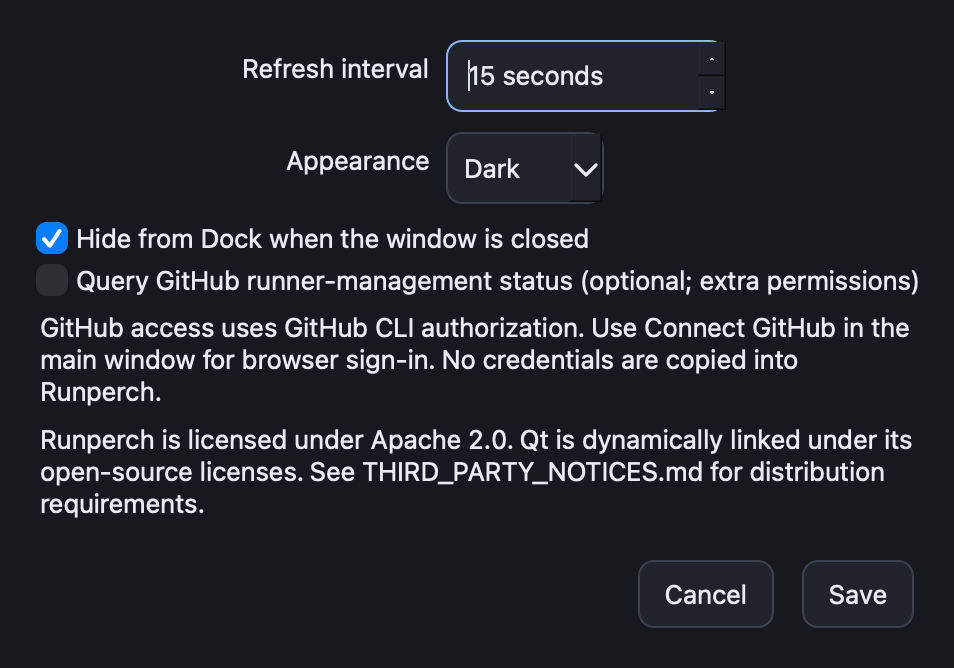
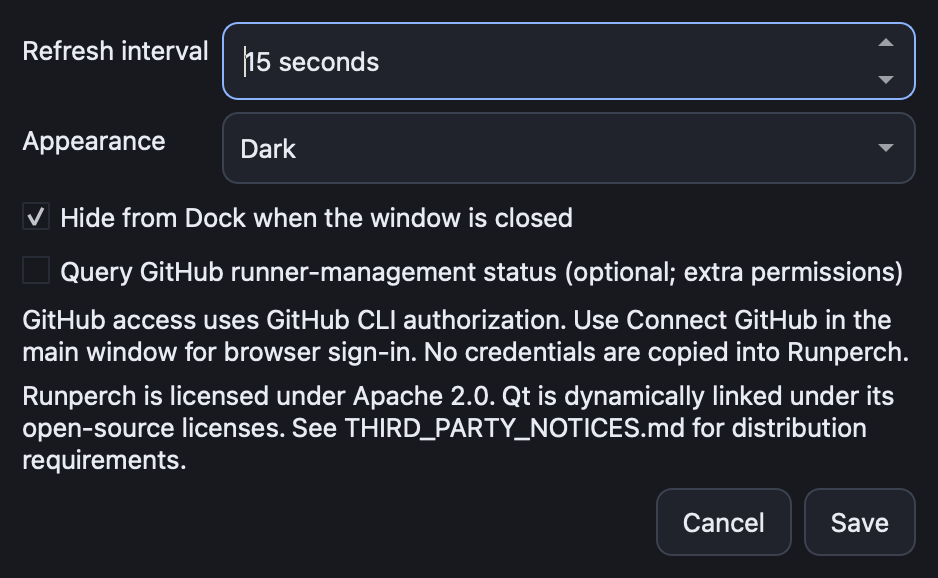
Fix themed dropdown and spin controls with portable UI diagnostics

diff --git a/tests/test_ui.cpp b/tests/test_ui.cpp
@@ -4,6 +4,13 @@
 #include "ui/display.h"
 #include "ui/theme.h"
 #include <QStyleHints>
+#include <QStyleOption>
+#include <algorithm>
+#include <cmath>
+#include <QSpinBox>
+#include <QScopeGuard>
+#include <QStyleFactory>
+#include <QPainter>
 #include <QCheckBox>
 #include <QScrollArea>
 #include <QScrollBar>
@@ -27,6 +34,46 @@
 #include <QTest>
 using namespace runperch;
 namespace {
+// Font rasterizers may blend every glyph pixel. Validate the expected color's
+// compositing line instead of demanding a pixel with exactly 100% coverage.
+bool renderedTextUses(const QImage& image,QRect area,QColor ink,QColor background) {
+    const double delta[]{double(ink.red()-background.red()),double(ink.green()-background.green()),double(ink.blue()-background.blue())};
+    const double length=delta[0]*delta[0]+delta[1]*delta[1]+delta[2]*delta[2];
+    if(length==0) return false;
+    int observed=0,matched=0;
+    area=area.intersected(image.rect());
+    for(int y=area.top();y<=area.bottom();++y) for(int x=area.left();x<=area.right();++x) {
+        const auto c=image.pixelColor(x,y);
+        const double sample[]{double(c.red()-background.red()),double(c.green()-background.green()),double(c.blue()-background.blue())};
+        if(std::max({std::abs(sample[0]),std::abs(sample[1]),std::abs(sample[2])})<12) continue;
+        ++observed;
+        const double alpha=(sample[0]*delta[0]+sample[1]*delta[1]+sample[2]*delta[2])/length;
+        const double clipped=std::clamp(alpha,0.0,1.0);
+        const double residual=std::max({std::abs(sample[0]-clipped*delta[0]),std::abs(sample[1]-clipped*delta[1]),std::abs(sample[2]-clipped*delta[2])});
+        if(residual<=8) ++matched;
+    }
+    return observed>=10 && matched>=observed*0.95;
+}
+bool matchesStandardArrow(QWidget* widget,QRect area,QStyle::PrimitiveElement primitive,bool enabled=true) {
+    const auto image=widget->grab().toImage();
+    QImage expected(image.size(),QImage::Format_ARGB32_Premultiplied); expected.setDevicePixelRatio(image.devicePixelRatio()); expected.fill(Qt::transparent);
+    QPainter painter(&expected); QStyleOption option; option.initFrom(widget);
+    option.rect=QStyle::alignedRect(widget->layoutDirection(),Qt::AlignCenter,QSize(12,12),area);
+    if(!enabled) option.state&=~QStyle::State_Enabled;
+    std::unique_ptr<QStyle> reference(QStyleFactory::create("Fusion")); reference->drawPrimitive(primitive,&option,&painter); painter.end();
+    const auto dpr=image.devicePixelRatio();
+    const auto background=image.pixelColor(qRound(area.center().x()*dpr),qRound((area.top()+2)*dpr));
+    int ink=0,matched=0;
+    for(int y=0;y<image.height();++y) for(int x=0;x<image.width();++x) {
+        const auto target=expected.pixelColor(x,y); if(target.alpha()<50) continue;
+        ++ink; const auto actual=image.pixelColor(x,y); const auto alpha=target.alphaF();
+        const auto red=qRound(alpha*target.red()+(1-alpha)*background.red());
+        const auto green=qRound(alpha*target.green()+(1-alpha)*background.green());
+        const auto blue=qRound(alpha*target.blue()+(1-alpha)*background.blue());
+        if(std::max({std::abs(actual.red()-red),std::abs(actual.green()-green),std::abs(actual.blue()-blue)})<=2) ++matched;
+    }
+    return ink>=4 && matched==ink;
+}
 class TestPlatform final : public Platform {
 public:
     ServiceObservation value;
@@ -79,6 +126,64 @@ private slots:
         hints->setColorScheme(Qt::ColorScheme::Light); qApp->processEvents(); QCOMPARE(theme().isDark(),hints->colorScheme()==Qt::ColorScheme::Dark);
 #endif
     }
+    void settingsControlsHaveSeparatedThemedSubcontrols() {
+        TestPlatform p; TestRemote g; Monitor m(p,g); Window window(m,p);
+        auto checked=std::make_shared<bool>(false);
+        QTimer::singleShot(0,&window,[checked] {
+            auto* dialog=qobject_cast<QDialog*>(QApplication::activeModalWidget()); QVERIFY(dialog);
+            auto* combo=dialog->findChild<QComboBox*>("themePreference"); QVERIFY(combo);
+            auto* spin=dialog->findChild<QSpinBox*>(); QVERIFY(spin);
+            // Always close the modal even when an assertion returns early.
+            const auto close=qScopeGuard([dialog] {dialog->reject();});
+            for(auto preference:{ThemePreference::Light,ThemePreference::Dark}) {
+                theme().setPreference(preference); qApp->processEvents();
+                QStyleOptionComboBox c; c.initFrom(combo); c.rect=combo->rect(); c.editable=false;
+                QCOMPARE(combo->style()->styleHint(QStyle::SH_ComboBox_Popup,&c,combo),0);
+                QCOMPARE(combo->style()->styleHint(QStyle::SH_ComboBox_UseNativePopup,&c,combo),0);
+                const auto arrow=combo->style()->subControlRect(QStyle::CC_ComboBox,&c,QStyle::SC_ComboBoxArrow,combo);
+                const auto text=combo->style()->subControlRect(QStyle::CC_ComboBox,&c,QStyle::SC_ComboBoxEditField,combo);
+                QVERIFY(arrow.width()>=24); QVERIFY(!arrow.intersects(text));
+                QVERIFY(matchesStandardArrow(combo,arrow,QStyle::PE_IndicatorArrowDown));
+                combo->setEnabled(false); QVERIFY(matchesStandardArrow(combo,arrow,QStyle::PE_IndicatorArrowDown)); combo->setEnabled(true);
+                QStyleOptionSpinBox b; b.initFrom(spin); b.rect=spin->rect(); b.frame=true;
+                b.buttonSymbols=QAbstractSpinBox::UpDownArrows;
+                const auto up=spin->style()->subControlRect(QStyle::CC_SpinBox,&b,QStyle::SC_SpinBoxUp,spin);
+                const auto down=spin->style()->subControlRect(QStyle::CC_SpinBox,&b,QStyle::SC_SpinBoxDown,spin);
+                const auto edit=spin->style()->subControlRect(QStyle::CC_SpinBox,&b,QStyle::SC_SpinBoxEditField,spin);
+                QVERIFY(up.width()>=24); QVERIFY(down.width()>=24);
+                QVERIFY(!up.intersects(edit)); QVERIFY(!down.intersects(edit)); QVERIFY(!up.intersects(down));
+                QVERIFY(up.top()>0); QVERIFY(down.bottom()<spin->height()-1);
+                QVERIFY(matchesStandardArrow(spin,up,QStyle::PE_IndicatorArrowUp));
+                QVERIFY(matchesStandardArrow(spin,down,QStyle::PE_IndicatorArrowDown));
+                spin->setValue(15); QTest::mouseClick(spin,Qt::LeftButton,Qt::NoModifier,up.center()); QCOMPARE(spin->value(),16);
+                QTest::mouseClick(spin,Qt::LeftButton,Qt::NoModifier,down.center()); QCOMPARE(spin->value(),15);
+                spin->setFocus(); QTest::keyClick(spin,Qt::Key_Up); QCOMPARE(spin->value(),16);
+                spin->setValue(spin->maximum()); QVERIFY(matchesStandardArrow(spin,up,QStyle::PE_IndicatorArrowUp,false)); QTest::mouseClick(spin,Qt::LeftButton,Qt::NoModifier,up.center()); QCOMPARE(spin->value(),spin->maximum());
+                spin->setValue(spin->minimum()); QVERIFY(matchesStandardArrow(spin,down,QStyle::PE_IndicatorArrowDown,false)); QTest::mouseClick(spin,Qt::LeftButton,Qt::NoModifier,down.center()); QCOMPARE(spin->value(),spin->minimum());
+                spin->setValue(15); spin->setEnabled(false);
+                QVERIFY(matchesStandardArrow(spin,up,QStyle::PE_IndicatorArrowUp));
+                QVERIFY(matchesStandardArrow(spin,down,QStyle::PE_IndicatorArrowDown));
+                QTest::mouseClick(spin,Qt::LeftButton,Qt::NoModifier,up.center()); QCOMPARE(spin->value(),15); spin->setEnabled(true);
+                const auto prefix=qEnvironmentVariable("RUNPERCH_CAPTURE_CONTROLS");
+                const auto suffix=preference==ThemePreference::Dark ? "-dark" : "-light";
+                if(!prefix.isEmpty()) QVERIFY(dialog->grab().save(prefix+suffix+"-settings.png"));
+                combo->setCurrentIndex(0); combo->showPopup(); qApp->processEvents(); QVERIFY(combo->view()->isVisible());
+                if(!prefix.isEmpty()) QVERIFY(combo->view()->window()->grab().save(prefix+suffix+"-choices.png"));
+                QVERIFY(combo->view()->viewport()->mapToGlobal(QPoint(0,0)).y()>=combo->mapToGlobal(QPoint(0,combo->height())).y());
+                if(!prefix.isEmpty()) QVERIFY(combo->view()->window()->grab().save(prefix+suffix+"-choices.png"));
+                QTest::keyClick(combo->view(),Qt::Key_Down); QTest::keyClick(combo->view(),Qt::Key_Enter); QCOMPARE(combo->currentIndex(),1);
+                combo->showPopup(); QTest::keyClick(combo->view(),Qt::Key_Escape); QCOMPARE(combo->currentIndex(),1);
+                QVERIFY(!combo->view()->isVisible());
+                combo->showPopup(); qApp->processEvents();
+                const auto item=combo->model()->index(2,0); const auto choice=combo->view()->visualRect(item);
+                QVERIFY(choice.isValid()); QTest::mouseClick(combo->view()->viewport(),Qt::LeftButton,Qt::NoModifier,choice.center());
+                QCOMPARE(combo->currentIndex(),2); QVERIFY(!combo->view()->isVisible());
+            }
+            *checked=true;
+        });
+        for(auto* button:window.findChildren<QPushButton*>()) if(button->text()=="Settings") { button->click(); break; }
+        QVERIFY(*checked); QCOMPARE(g.calls,0); QCOMPARE(p.actions,0);
+    }
     void liveThemeReachesRealWindowPopoverMenusAndChartWithoutQueries() {
         QTemporaryDir runner; QFile f(runner.filePath(".runner")); QVERIFY(f.open(QIODevice::WriteOnly));
         f.write("{\"agentId\":42,\"agentName\":\"theme-runner\",\"gitHubUrl\":\"https://github.com/example/project\"}"); f.close();
@@ -98,11 +203,18 @@ private slots:
             auto logoImage=window.findChild<QLabel*>("logo")->pixmap().toImage(); int logoPixels=0;
             for(int y=0;y<logoImage.height();++y) for(int x=0;x<logoImage.width();++x) if(logoImage.pixelColor(x,y).rgb()==t.accent.rgb()) ++logoPixels;
             QVERIFY2(logoPixels>0,"Sidebar brand mark does not consume the current theme accent");
-            QCheckBox disabled("Unavailable setting",&window); disabled.setEnabled(false); disabled.show(); disabled.ensurePolished();
+            QCheckBox disabled("Unavailable setting",&window); disabled.setEnabled(false); disabled.show(); disabled.ensurePolished(); disabled.adjustSize();
             QCOMPARE(disabled.palette().color(QPalette::Disabled,QPalette::WindowText),t.disabled);
-            auto disabledImage=disabled.grab().toImage(); int disabledPixels=0;
-            for(int y=0;y<disabledImage.height();++y) for(int x=0;x<disabledImage.width();++x) if(disabledImage.pixelColor(x,y).rgb()==t.disabled.rgb()) ++disabledPixels;
-            QVERIFY(disabledPixels>0);
+            QStyleOptionButton check; check.initFrom(&disabled); check.rect=disabled.rect();
+            const auto contents=disabled.style()->subElementRect(QStyle::SE_CheckBoxContents,&check,&disabled);
+            auto disabledImage=disabled.grab().toImage();
+            const auto dpr=disabledImage.devicePixelRatio();
+            const QRect physical(qRound(contents.x()*dpr),qRound(contents.y()*dpr),qRound(contents.width()*dpr),qRound(contents.height()*dpr));
+            QVERIFY(renderedTextUses(disabledImage,physical,t.disabled,t.background));
+            // Deliberately break the actual consumer: the raster gate must reject it.
+            disabled.setStyleSheet("QCheckBox:disabled {color:magenta;}");
+            QVERIFY(!renderedTextUses(disabled.grab().toImage(),physical,t.disabled,t.background));
+            disabled.setStyleSheet({});
             auto image=popup->findChild<QWidget*>("cpuHistory")->grab().toImage(); int accentPixels=0;
             for(int y=0;y<image.height();++y) for(int x=0;x<image.width();++x) if(image.pixelColor(x,y).rgb()==t.accent.rgb()) ++accentPixels;
             QVERIFY(accentPixels>0); QCOMPARE(g.calls,0); QCOMPARE(p.actions,0);
@@ -195,7 +307,14 @@ private slots:
         selector->setCurrentIndex(1); QCOMPARE(selector->currentText(),QString("second"));
         QSignalSpy resets(selector->model(),&QAbstractItemModel::rowsRemoved);
         popup->present(QRect(400,40,20,20)); selector->showPopup(); QVERIFY(selector->view()->isVisible());
-        popup->refresh(); QCOMPARE(resets.count(),0); QVERIFY(selector->view()->isVisible()); selector->hidePopup(); popup->hide();
+        popup->refresh(); QCOMPARE(resets.count(),0); QVERIFY(selector->view()->isVisible());
+        QVERIFY(selector->view()->viewport()->mapToGlobal(QPoint(0,0)).y()>=selector->mapToGlobal(QPoint(0,selector->height())).y());
+        const auto prefix=qEnvironmentVariable("RUNPERCH_CAPTURE_CONTROLS");
+        if(!prefix.isEmpty()) {
+            QVERIFY(popup->grab().save(prefix+"-runner-field.png"));
+            QVERIFY(selector->view()->window()->grab().save(prefix+"-runner-choices.png"));
+        }
+        selector->hidePopup(); popup->hide();
         auto accepted=std::make_shared<bool>(false);
         QTimer::singleShot(0,&window,[&monitor,&second,accepted] {
             monitor.remove(1); *accepted=monitor.add(second.path()); monitor.refresh(true);

diff --git a/src/ui/theme.cpp b/src/ui/theme.cpp
@@ -5,6 +5,7 @@
 #include <QPainter>
 #include <QSettings>
 #include <QStyleHints>
+#include <QStyleFactory>
 namespace runperch {
 ThemeTokens themeTokens(bool dark) {
     if(dark) return {
@@ -53,7 +54,20 @@ QString stylesheet(const ThemeTokens& t) {
         QMenu::item:disabled { color:@disabled@; }
         QComboBox, QLineEdit, QSpinBox { background:@surface@; border:1px solid @border@; border-radius:@radius@px; padding:@gap@px; selection-background-color:@selection@; selection-color:@selectedText@; }
         QComboBox:disabled, QLineEdit:disabled, QSpinBox:disabled { color:@disabled@; background:@disabledBackground@; }
-        QComboBox QAbstractItemView { background:@surface@; color:@text@; selection-background-color:@selection@; selection-color:@selectedText@; }
+        QComboBox { padding-right:36px; combobox-popup:0; }
+        QComboBox::drop-down { subcontrol-origin:padding; subcontrol-position:top right; width:28px; border:none; background:transparent; border-top-right-radius:@radius@px; border-bottom-right-radius:@radius@px; }
+        QComboBox::drop-down:hover { background:@hover@; }
+        QComboBox::drop-down:on { background:@selection@; }
+        QComboBox::drop-down:disabled { background:transparent; }
+        QComboBox QAbstractItemView { background:@surface@; color:@text@; border:1px solid @border@; padding:4px; outline:none; selection-background-color:@selection@; selection-color:@selectedText@; }
+        QComboBox QAbstractItemView::item { min-height:28px; padding:2px 8px; border:none; }
+        QSpinBox { padding-right:36px; }
+        QSpinBox::up-button, QSpinBox::down-button { subcontrol-origin:padding; width:28px; border:none; background:transparent; }
+        QSpinBox::up-button { subcontrol-position:top right; border-top-right-radius:@radius@px; }
+        QSpinBox::down-button { subcontrol-position:bottom right; border-bottom-right-radius:@radius@px; }
+        QSpinBox::up-button:hover, QSpinBox::down-button:hover { background:@hover@; }
+        QSpinBox::up-button:pressed, QSpinBox::down-button:pressed { background:@selection@; }
+        QSpinBox::up-button:disabled, QSpinBox::down-button:disabled { background:transparent; }
         QToolTip { color:@text@; background:@surface@; border:1px solid @border@; padding:@gap@px; }
         QFrame#runnerPopover { background:transparent; border:none; }
         QWidget#popoverContent, QWidget#popoverViewport, QScrollArea#popoverScroll { background:transparent; border:none; }
@@ -79,6 +93,9 @@ QString stylesheet(const ThemeTokens& t) {
 }
 }
 ThemeController::ThemeController(QObject* parent):QObject(parent) {
+    // One portable widget base prevents native subcontrols leaking through QSS.
+    // QApplication owns the style; install it once, before applying theme rules.
+    baseStyle=QStyleFactory::create("Fusion"); qApp->setStyle(baseStyle);
     setObjectName("applicationTheme"); const auto saved=QSettings().value("appearance","system").toString();
     choice=saved=="dark" ? ThemePreference::Dark : saved=="light" ? ThemePreference::Light : ThemePreference::System;
     connect(QGuiApplication::styleHints(),&QStyleHints::colorSchemeChanged,this,[this] { if(choice==ThemePreference::System) apply(); });

diff --git a/src/ui/popover.cpp b/src/ui/popover.cpp
@@ -1,3 +1,4 @@
+#include "ui/themed_controls.h"
 #include "ui/popover.h"
 #include "ui/display.h"
 #include "ui/theme.h"
@@ -40,7 +41,7 @@ RunnerPopover::RunnerPopover(Monitor& m,QWidget* parent,Qt::WindowFlags flags):Q
     column->setContentsMargins(uiMetrics.inset,uiMetrics.inset,uiMetrics.inset,uiMetrics.inset); column->setSpacing(uiMetrics.gap); column->setAlignment(Qt::AlignTop);
     auto* header=new QHBoxLayout; auto* brand=line("popoverBrand"); brand->setText("Runperch"); header->addWidget(brand); header->addStretch();
     auto* open=new QPushButton("Open overview ↗"); open->setObjectName("popoverOverview"); header->addWidget(open); column->addLayout(header);
-    selector=new QComboBox; selector->setObjectName("popoverRunners"); selector->setAccessibleName("Runner"); selector->setSizeAdjustPolicy(QComboBox::AdjustToMinimumContentsLengthWithIcon); selector->setMinimumContentsLength(10); column->addWidget(selector);
+    selector=new ThemedComboBox; selector->setObjectName("popoverRunners"); selector->setAccessibleName("Runner"); selector->setSizeAdjustPolicy(QComboBox::AdjustToMinimumContentsLengthWithIcon); selector->setMinimumContentsLength(10); column->addWidget(selector);
     state=line("popoverState"); activity=line("popoverActivity"); local=line("popoverLocal"); timing=line("popoverTiming");
     auto* statusRow=new QHBoxLayout; statusRow->addWidget(state); statusRow->addStretch(); statusRow->addWidget(local);
     column->addLayout(statusRow); column->addWidget(activity); column->addWidget(timing);

diff --git a/src/ui/themed_controls.cpp b/src/ui/themed_controls.cpp
@@ -1,0 +1,25 @@
+#include "ui/themed_controls.h"
+#include "ui/theme.h"
+#include <QPainter>
+#include <QStyleOption>
+namespace runperch {
+namespace {
+void standardArrow(QWidget* widget,QRect area,QStyle::PrimitiveElement primitive,QPainter& painter,bool enabled=true) {
+    QStyleOption arrow; arrow.initFrom(widget);
+    arrow.rect=QStyle::alignedRect(widget->layoutDirection(),Qt::AlignCenter,QSize(12,12),area);
+    if(!enabled) arrow.state&=~QStyle::State_Enabled;
+    theme().widgetBaseStyle().drawPrimitive(primitive,&arrow,&painter,widget);
+}
+}
+void ThemedComboBox::paintEvent(QPaintEvent* event) {
+    QComboBox::paintEvent(event);
+    QStyleOptionComboBox option; initStyleOption(&option); QPainter painter(this);
+    standardArrow(this,style()->subControlRect(QStyle::CC_ComboBox,&option,QStyle::SC_ComboBoxArrow,this),QStyle::PE_IndicatorArrowDown,painter);
+}
+void ThemedSpinBox::paintEvent(QPaintEvent* event) {
+    QSpinBox::paintEvent(event);
+    QStyleOptionSpinBox option; initStyleOption(&option); QPainter painter(this);
+    standardArrow(this,style()->subControlRect(QStyle::CC_SpinBox,&option,QStyle::SC_SpinBoxUp,this),QStyle::PE_IndicatorArrowUp,painter,option.stepEnabled&StepUpEnabled);
+    standardArrow(this,style()->subControlRect(QStyle::CC_SpinBox,&option,QStyle::SC_SpinBoxDown,this),QStyle::PE_IndicatorArrowDown,painter,option.stepEnabled&StepDownEnabled);
+}
+}

diff --git a/src/ui/window.cpp b/src/ui/window.cpp
@@ -1,3 +1,4 @@
+#include "ui/themed_controls.h"
 #include "ui/window.h"
 #include "ui/popover.h"
 #include "ui/display.h"
@@ -291,9 +292,9 @@ void Window::controlRunner(QString root,quint64 instance,ServiceAction action) {
 }
 void Window::settings() {
     QDialog dialog(this); dialog.setWindowTitle("Runperch settings"); auto* layout=new QVBoxLayout(&dialog);
-    auto* form=new QFormLayout; auto* seconds=new QSpinBox; seconds->setRange(5,3600); seconds->setSuffix(" seconds"); seconds->setValue(savedRefreshInterval());
+    auto* form=new QFormLayout; auto* seconds=new ThemedSpinBox; seconds->setRange(5,3600); seconds->setSuffix(" seconds"); seconds->setValue(savedRefreshInterval());
     form->addRow("Refresh interval",seconds);
-    auto* appearance=new QComboBox; appearance->setObjectName("themePreference");
+    auto* appearance=new ThemedComboBox; appearance->setObjectName("themePreference");
     appearance->addItems({"System","Light","Dark"}); appearance->setCurrentIndex(static_cast<int>(theme().preference()));
     form->addRow("Appearance",appearance); layout->addLayout(form);
     QCheckBox* hideDock=nullptr;

diff --git a/src/ui/theme.h b/src/ui/theme.h
@@ -3,6 +3,7 @@
 #include <QColor>
 #include <QPixmap>
 #include <Qt>
+class QStyle;
 namespace runperch {
 enum class ThemePreference { System, Light, Dark };
 struct ThemeTokens {
@@ -23,6 +24,7 @@ public:
     ThemePreference preference() const { return choice; }
     bool isDark() const { return dark; }
     const ThemeTokens& tokens() const { return current; }
+    QStyle& widgetBaseStyle() const { return *baseStyle; }
     void setPreference(ThemePreference);
 signals:
     void changed();
@@ -31,6 +33,7 @@ private:
     ThemePreference choice=ThemePreference::System;
     bool dark=false;
     ThemeTokens current;
+    QStyle* baseStyle=nullptr; // Owned by QApplication, beneath the stylesheet wrapper.
 };
 ThemeController& theme();
 QString statusTone(const QString& status);

diff --git a/src/ui/themed_controls.h b/src/ui/themed_controls.h
@@ -1,0 +1,19 @@
+#pragma once
+#include <QComboBox>
+#include <QSpinBox>
+namespace runperch {
+// Keep Qt input, accessibility and popup behavior; only restore the standard
+// arrow primitives that custom stylesheet subcontrols otherwise suppress.
+class ThemedComboBox final : public QComboBox {
+public:
+    using QComboBox::QComboBox;
+protected:
+    void paintEvent(QPaintEvent*) override;
+};
+class ThemedSpinBox final : public QSpinBox {
+public:
+    using QSpinBox::QSpinBox;
+protected:
+    void paintEvent(QPaintEvent*) override;
+};
+}

diff --git a/design/themes.md b/design/themes.md
@@ -41,3 +41,45 @@ No resource sampling, history retention, service-control policy, authentication 
 GitHub requests change. Screenshots use explicit scripted sample data. Native
 Windows/Linux appearance and physical OS theme switching require their own checks;
 local Mac captures are not evidence of those platforms.
+
+## 0.7.1 control rendering correction (planned before implementation)
+
+| Before | After | Reason |
+|---|---|---|
+| Native platform subcontrols inside custom rounded fields | Built-in Qt Fusion base with one shared token stylesheet covering combo and spin subcontrols | Avoid mixed native/QSS edges; keep the same implementation across platforms |
+| Combo menu overlaps field with native checkmark styling | Qt list popup below the field (`combobox-popup: 0`) with themed rows | Keep the field readable while selecting, including in the menu-bar panel |
+| Tiny native spin buttons with square patches | Inset, padded spin buttons with matching corner radii and visible hover/pressed/disabled states | Consistent geometry and readable controls |
+| Exact-color disabled-text raster assertion | Check rendered text against alpha-composited foreground/background colors | Antialiased glyphs need not contain any fully covered pixel |
+| Windows CTest failure lacks Qt UI details | Persistent UI report printed in CI | Diagnose native platform failures rather than guessing |
+
+References: Qt's documented merged QComboBox and QSpinBox stylesheet examples,
+QStyleFactory's portable built-in Fusion style, and the Qt 6.8 reference
+implementation QStyleSheetStyle::styleHint (`combobox-popup`) and
+QFusionStyle::drawPrimitive for standard arrows. Shared thin widget paint adapters
+call Qt's standard arrow primitive after the styled base field, because QSS custom
+subcontrols suppress the inherited arrow. No custom dropdown behavior,
+painting algorithm or platform-specific shared logic is introduced.
+
+- https://doc.qt.io/qt-6/stylesheet-examples.html#customizing-qcombobox
+- https://doc.qt.io/qt-6/stylesheet-examples.html#customizing-qspinbox
+- https://doc.qt.io/qt-6/qstylefactory.html
+- https://github.com/qt/qtbase/blob/6.8/src/widgets/styles/qstylesheetstyle.cpp
+
+| Reference / acceptance gate | Implementation and verification |
+|---|---|
+| Fully own field/subcontrol geometry | Shared stylesheet; assert separated text/arrow rectangles on real Settings controls |
+| Preserve standard behavior | Real popup selection/Escape and spin clicks/keyboard/bounds tests |
+| Use themed popup view | Actual runner chooser survives refresh; list geometry below field and theme colors verified |
+| Preserve Cocoa panel lifecycle | Existing native nonactivating panel journey retained |
+| Render both themes and states | Cocoa light/dark Settings and open chooser captures; focus, disabled, bounds covered |
+| Defect regression fails first | Settings geometry/list-mode assertions run against unchanged production code |
+| Portable raster acceptance | Antialias-aware text assertion plus wrong-foreground mutation; no platform skips |
+| Independent review and native CI | Review before publication; Mac local results do not certify Windows/Linux |
+
+Deviation: Fusion deliberately replaces the OS-specific widget base for consistent
+themed interiors. Window chrome, Dock/menu-bar integration and native lifecycle
+remain in the platform adapter.
+
+Arrow conformance: real fields must match the Qt Fusion primitive raster in both
+themes (including disabled/bound states). The popup content viewport must start
+below the field; Qt intentionally shares the one-pixel outer border.

diff --git a/design/validation.md b/design/validation.md
@@ -174,3 +174,30 @@ works through palette/styles, with native chrome following OS appearance. Native
 Windows/Linux appearance and human physical theme switching remain unverified.
 The app remains a development bundle requiring local Qt, not a signed portable
 distribution.
+
+## 0.7.1 shared control rendering and portable test diagnostics
+
+- The Cocoa regression failed on the original overlapping combo menu hint. A
+  separate raster regression failed when the styled control lacked its standard
+  arrow. Shared paint adapters restore Qt Fusion's existing arrow primitive;
+  geometry and actual arrow raster now pass in light/dark, disabled and min/max
+  states. No custom input, dropdown, spin-step or accessibility behavior is used.
+- Real Settings controls verify arrow clicks, keyboard steps, numeric bounds,
+  keyboard and mouse selection, Escape and popup content below the field. The
+  real runner chooser stays open without model changes during refresh.
+- Local Release CTest: 7/7 passed; core 69 and UI 21 passed without failures or
+  skips. Full Cocoa UI: 21 passed. Native nonactivating panel and bundle gates
+  remain intact. Light/dark captures of the real widgets were visually checked.
+- Previous public 0.7 CI passed macOS/lint and failed UI on Linux/Windows. Linux
+  reports an exact-color disabled-text assertion; Windows did not expose its UI
+  detail. The raster gate now checks alpha-composited text rather than requiring
+  a fully covered glyph pixel, and deliberately rendering magenta must fail it.
+  The UI report is now persisted and printed separately, including on Windows.
+- Workflow lint 1.7.12 and whitespace checks pass. Native Windows/Linux results
+  for this correction must be checked separately after publication; their prior
+  UI failure is not silently treated as fixed by a Mac pass.
+
+Independent source/reference/visual review cleared this correction and reran
+focused tests on both offscreen and Cocoa backends (5 entries each, no skips).
+No live runner service, authentication or stored runner catalog was changed.
+The local app is still a development bundle requiring installed Qt.

diff --git a/README.md b/README.md
@@ -53,7 +53,7 @@ Click a thumbnail to see the full image.
   </tr>
 </table>
 
-Actual version 0.7.0 Qt interface, captured with scripted example data.
+Actual version 0.7.1 Qt interface, captured with scripted example data.
 [Overview](assets/screenshots/macos-dark-overview.png) and
 [appearance settings](assets/screenshots/macos-dark-settings.png) use the same
 shared tokens. Public screenshots contain no personal runner configuration or
